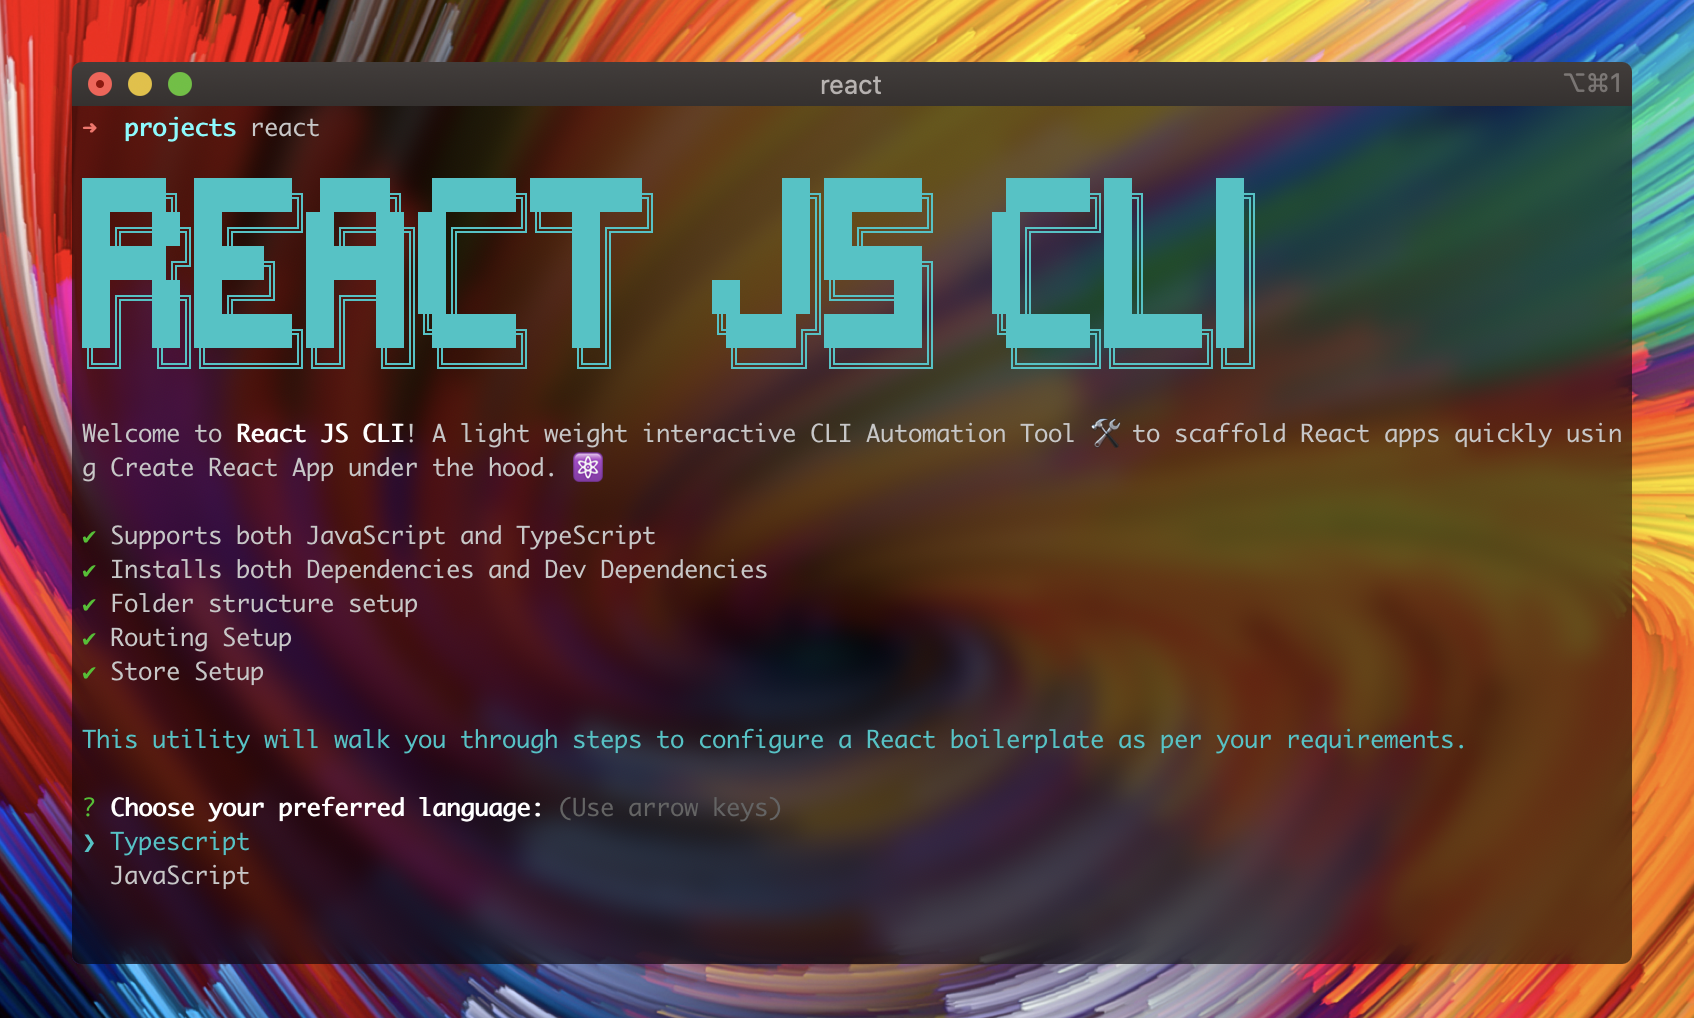
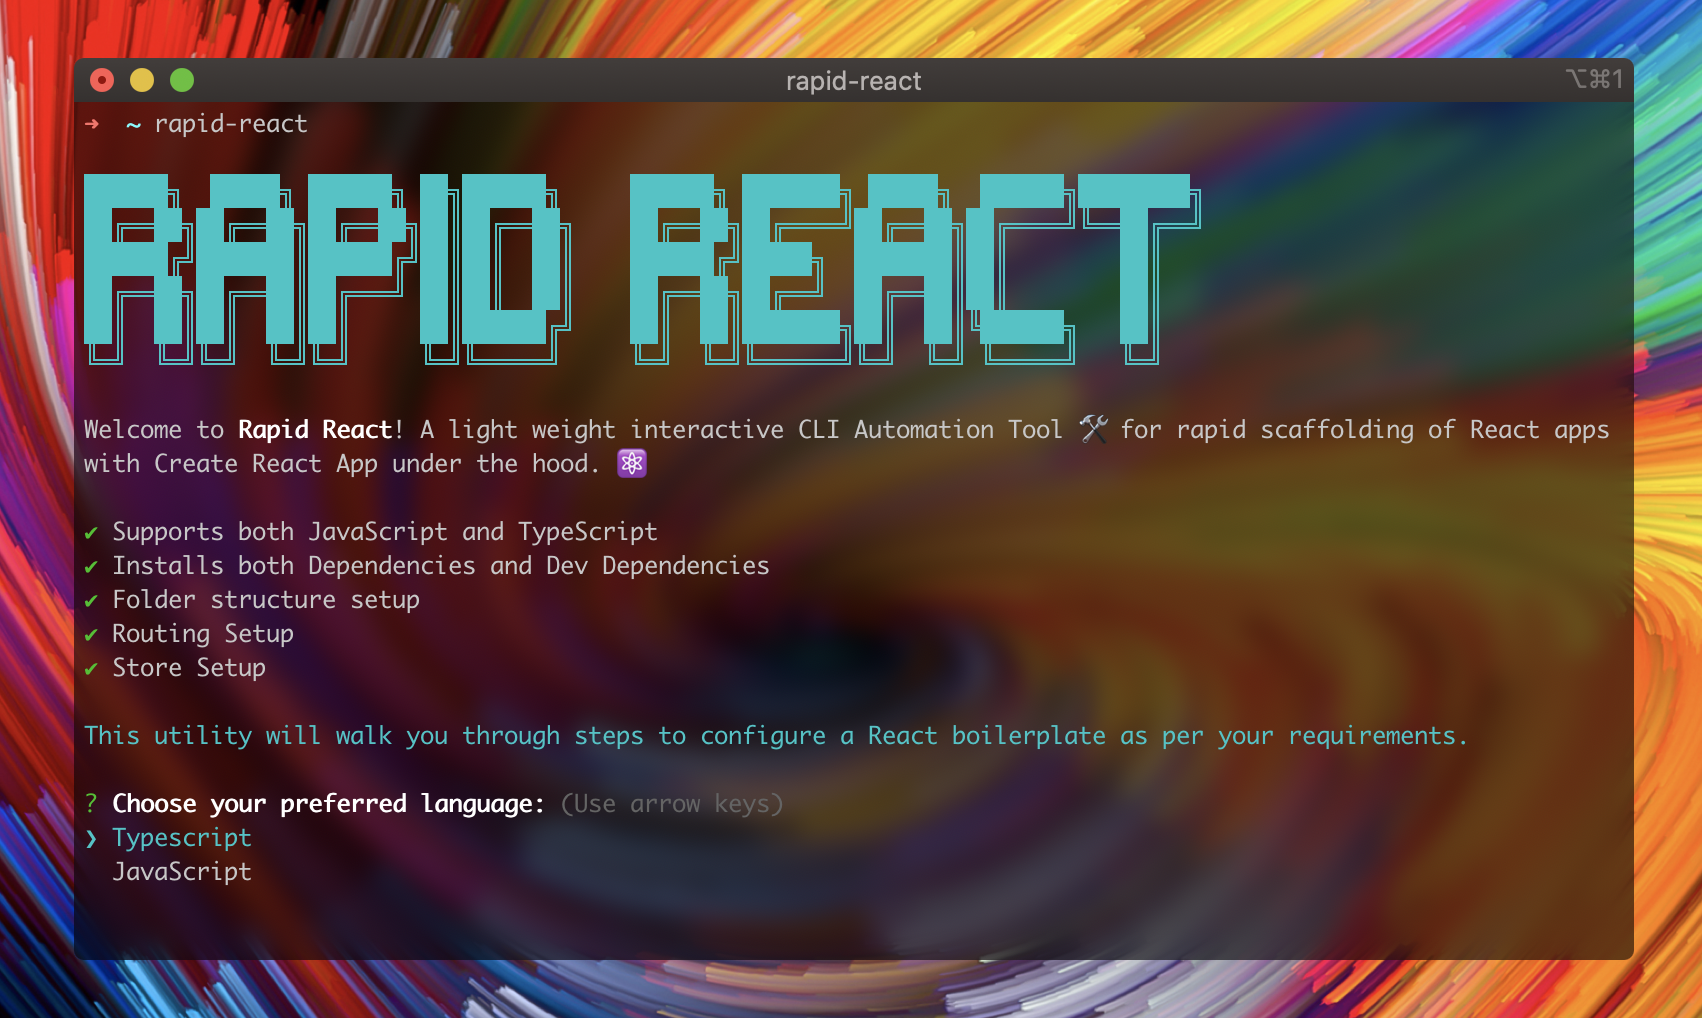
fix: package renamed

diff --git a/src/messages/index.ts b/src/messages/index.ts
@@ -1,10 +1,10 @@
 import chalk from "chalk";
 
-const name = 'React JS CLI';
-const repo = 'https://github.com/vinaysharma14/react-js-cli/issues';
+const name = 'Rapid React';
+const repo = 'https://github.com/vinaysharma14/rapid-react/issues';
 
 const messages = {
-  welcome: `Welcome to ${chalk.bold(name)}! A light weight interactive CLI Automation Tool 🛠  to scaffold React apps quickly using Create React App under the hood. ⚛`,
+  welcome: `Welcome to ${chalk.bold(name)}! A light weight interactive CLI Automation Tool 🛠  for rapid scaffolding of React apps with Create React App under the hood. ⚛`,
   walkThrough: 'This utility will walk you through steps to configure a React boilerplate as per your requirements.',
   complete: 'Setup is complete! You can check app in',
   thanks: `Thanks for using ${chalk.bold(name)}. Happy Coding! </>`,

diff --git a/README.md b/README.md
@@ -1,11 +1,11 @@
 <h1 align="center">
-  React JS CLI :hammer_and_wrench:
+  Rapid React :hammer_and_wrench:
 </h1>
 
 <h4 align="center">
-  A light weight interactive CLI Automation Tool :hammer_and_wrench: to scaffold React apps quickly,
+  A light weight interactive CLI Automation Tool :hammer_and_wrench: for rapid scaffolding of React apps,
   <br>
-  using
+  with
   <a href="https://create-react-app.dev/" target="_blank">Create React App</a> under the hood. :atom:
 </h4>
 
@@ -27,9 +27,9 @@
 
 ## About :information_source:
 
-<a href="https://github.com/vinaysharma14/react-js-cli" target="_blank">React JS CLI</a> is an interactive CLI tool which automates the repetitive steps involved every time a new React app is setup. Usually developers :man_technologist: go through a time consuming process which involves waiting for **create-react-app** to finish it's boilerplate setup, followed by installation of dependencies & dev dependencies, setup of folder structure, routing, state management, e.t.c. before it can finally start working on the app. :construction:
+<a href="https://github.com/vinaysharma14/rapid-react" target="_blank">Rapid React</a> is an interactive CLI tool which automates the repetitive steps involved every time a new React app is setup. Usually developers :man_technologist: go through a time consuming process which involves waiting for **create-react-app** to finish it's boilerplate setup, followed by installation of dependencies & dev dependencies, setup of folder structure, routing, state management, e.t.c. before it can finally start working on the app. :construction:
 
-Well, now you can grab a cup of :coffee: while **React JS CLI** scaffolds the app for you! :relieved:
+Well, now you can grab a cup of :coffee: while **Rapid React** scaffolds the app for you! :relieved:
 
 ## Features :tada:
 
@@ -58,16 +58,16 @@ From your terminal run:
 
 ```bash
 # install the package from NPM
-$ npm install react-js-cli
+$ npm install rapid-react
 ```
 
 ## Documentation :green_book:
 
-**React JS CLI** installs `react` command in your system. To run the tool, you need to invoke this command from your terminal:
+**Rapid React** installs `rapid-react` command in your system. To run the tool, you need to invoke this command from your terminal:
 
 ```bash
 # that's it!
-$ react
+$ rapid-react
 ```
 
 As soon as run the command you are greeted by the CLI.
@@ -149,8 +149,8 @@ The utility would walk you through from following:
 
 ## Contributing :handshake:
 
-Your contributions are always welcome! Please have a look at the [contribution guidelines](https://github.com/vinaysharma14/react-js-cli/blob/master/CONTRIBUTING.md) first. 🎉
+Your contributions are always welcome! Please have a look at the [contribution guidelines](https://github.com/vinaysharma14/rapid-react/blob/master/CONTRIBUTING.md) first. 🎉
 
 ## License :page_facing_up:
 
-**React JS CLI** is licensed under the terms of [MIT License](https://github.com/vinaysharma14/react-js-cli/blob/master/LICENSE.md).
+**Rapid React** is licensed under the terms of [MIT License](https://github.com/vinaysharma14/rapid-react/blob/master/LICENSE.md).

diff --git a/CONTRIBUTING.md b/CONTRIBUTING.md
@@ -1,10 +1,10 @@
-# Contributing to React JS CLI :tada:
+# Contributing to Rapid React :tada:
 
-Contributions are always welcome. :partying_face: Before contributing please read the [code of conduct](https://github.com/vinaysharma14/react-js-cli/blob/master/CODE_OF_CONDUCT.md). To contribute, [fork](https://docs.github.com/en/free-pro-team@latest/github/getting-started-with-github/fork-a-repo) **React JS CLI**, commit your changes, & send a [pull request](https://docs.github.com/en/free-pro-team@latest/github/collaborating-with-issues-and-pull-requests/about-pull-requests) pointing to `development` branch. :balloon:
+Contributions are always welcome. :partying_face: Before contributing please read the [code of conduct](https://github.com/vinaysharma14/rapid-react/blob/master/CODE_OF_CONDUCT.md). To contribute, [fork](https://docs.github.com/en/free-pro-team@latest/github/getting-started-with-github/fork-a-repo) **Rapid React**, commit your changes, & send a [pull request](https://docs.github.com/en/free-pro-team@latest/github/collaborating-with-issues-and-pull-requests/about-pull-requests) pointing to `development` branch. :balloon:
 
 ```bash
-$ git clone https://github.com/<your-github-username>/react-js-cli
-$ cd react-js-cli
+$ git clone https://github.com/<your-github-username>/rapid-react
+$ cd rapid-react
 $ npm install
 ```
 
@@ -19,14 +19,14 @@ $ npm install
 
 ## Found a bug? Missing a specific feature? :mailbox_with_mail:
 
-Feel free to raise a bug or a feature request. Please search the [issue tracker](https://github.com/vinaysharma14/react-js-cli/issues) beforehand, your issue/feature may have already been discussed or fixed in master.
+Feel free to raise a bug or a feature request. Please search the [issue tracker](https://github.com/vinaysharma14/rapid-react/issues) beforehand, your issue/feature may have already been discussed or fixed in master.
 
 ### File a bug :beetle:
 
 In case you've encountered a bug, please make sure:
 
 - You are using the latest version.
-- You have read the [documentation](https://github.com/vinaysharma14/react-js-cli/blob/master/README.md) first, and double-checked your configuration.
+- You have read the [documentation](https://github.com/vinaysharma14/rapid-react/blob/master/README.md) first, and double-checked your configuration.
 - You have acknowledged from troubleshooting & debugging the errors are likely a bug in this project, and not coming from e.g. your environment or custom scripts/commands.
 - In your issue description, please include:
   - A clear and descriptive title.
@@ -70,4 +70,4 @@ Guidelines are enforced using [ESLint](https://eslint.org/):
 $ npm run lint
 ```
 
-**Note:** make sure to always keep [README.md](https://github.com/vinaysharma14/react-js-cli/blob/master/README.md) up to date with new features being added, existing functionalities being deprecated, e.t.c.
+**Note:** make sure to always keep [README.md](https://github.com/vinaysharma14/rapid-react/blob/master/README.md) up to date with new features being added, existing functionalities being deprecated, e.t.c.
